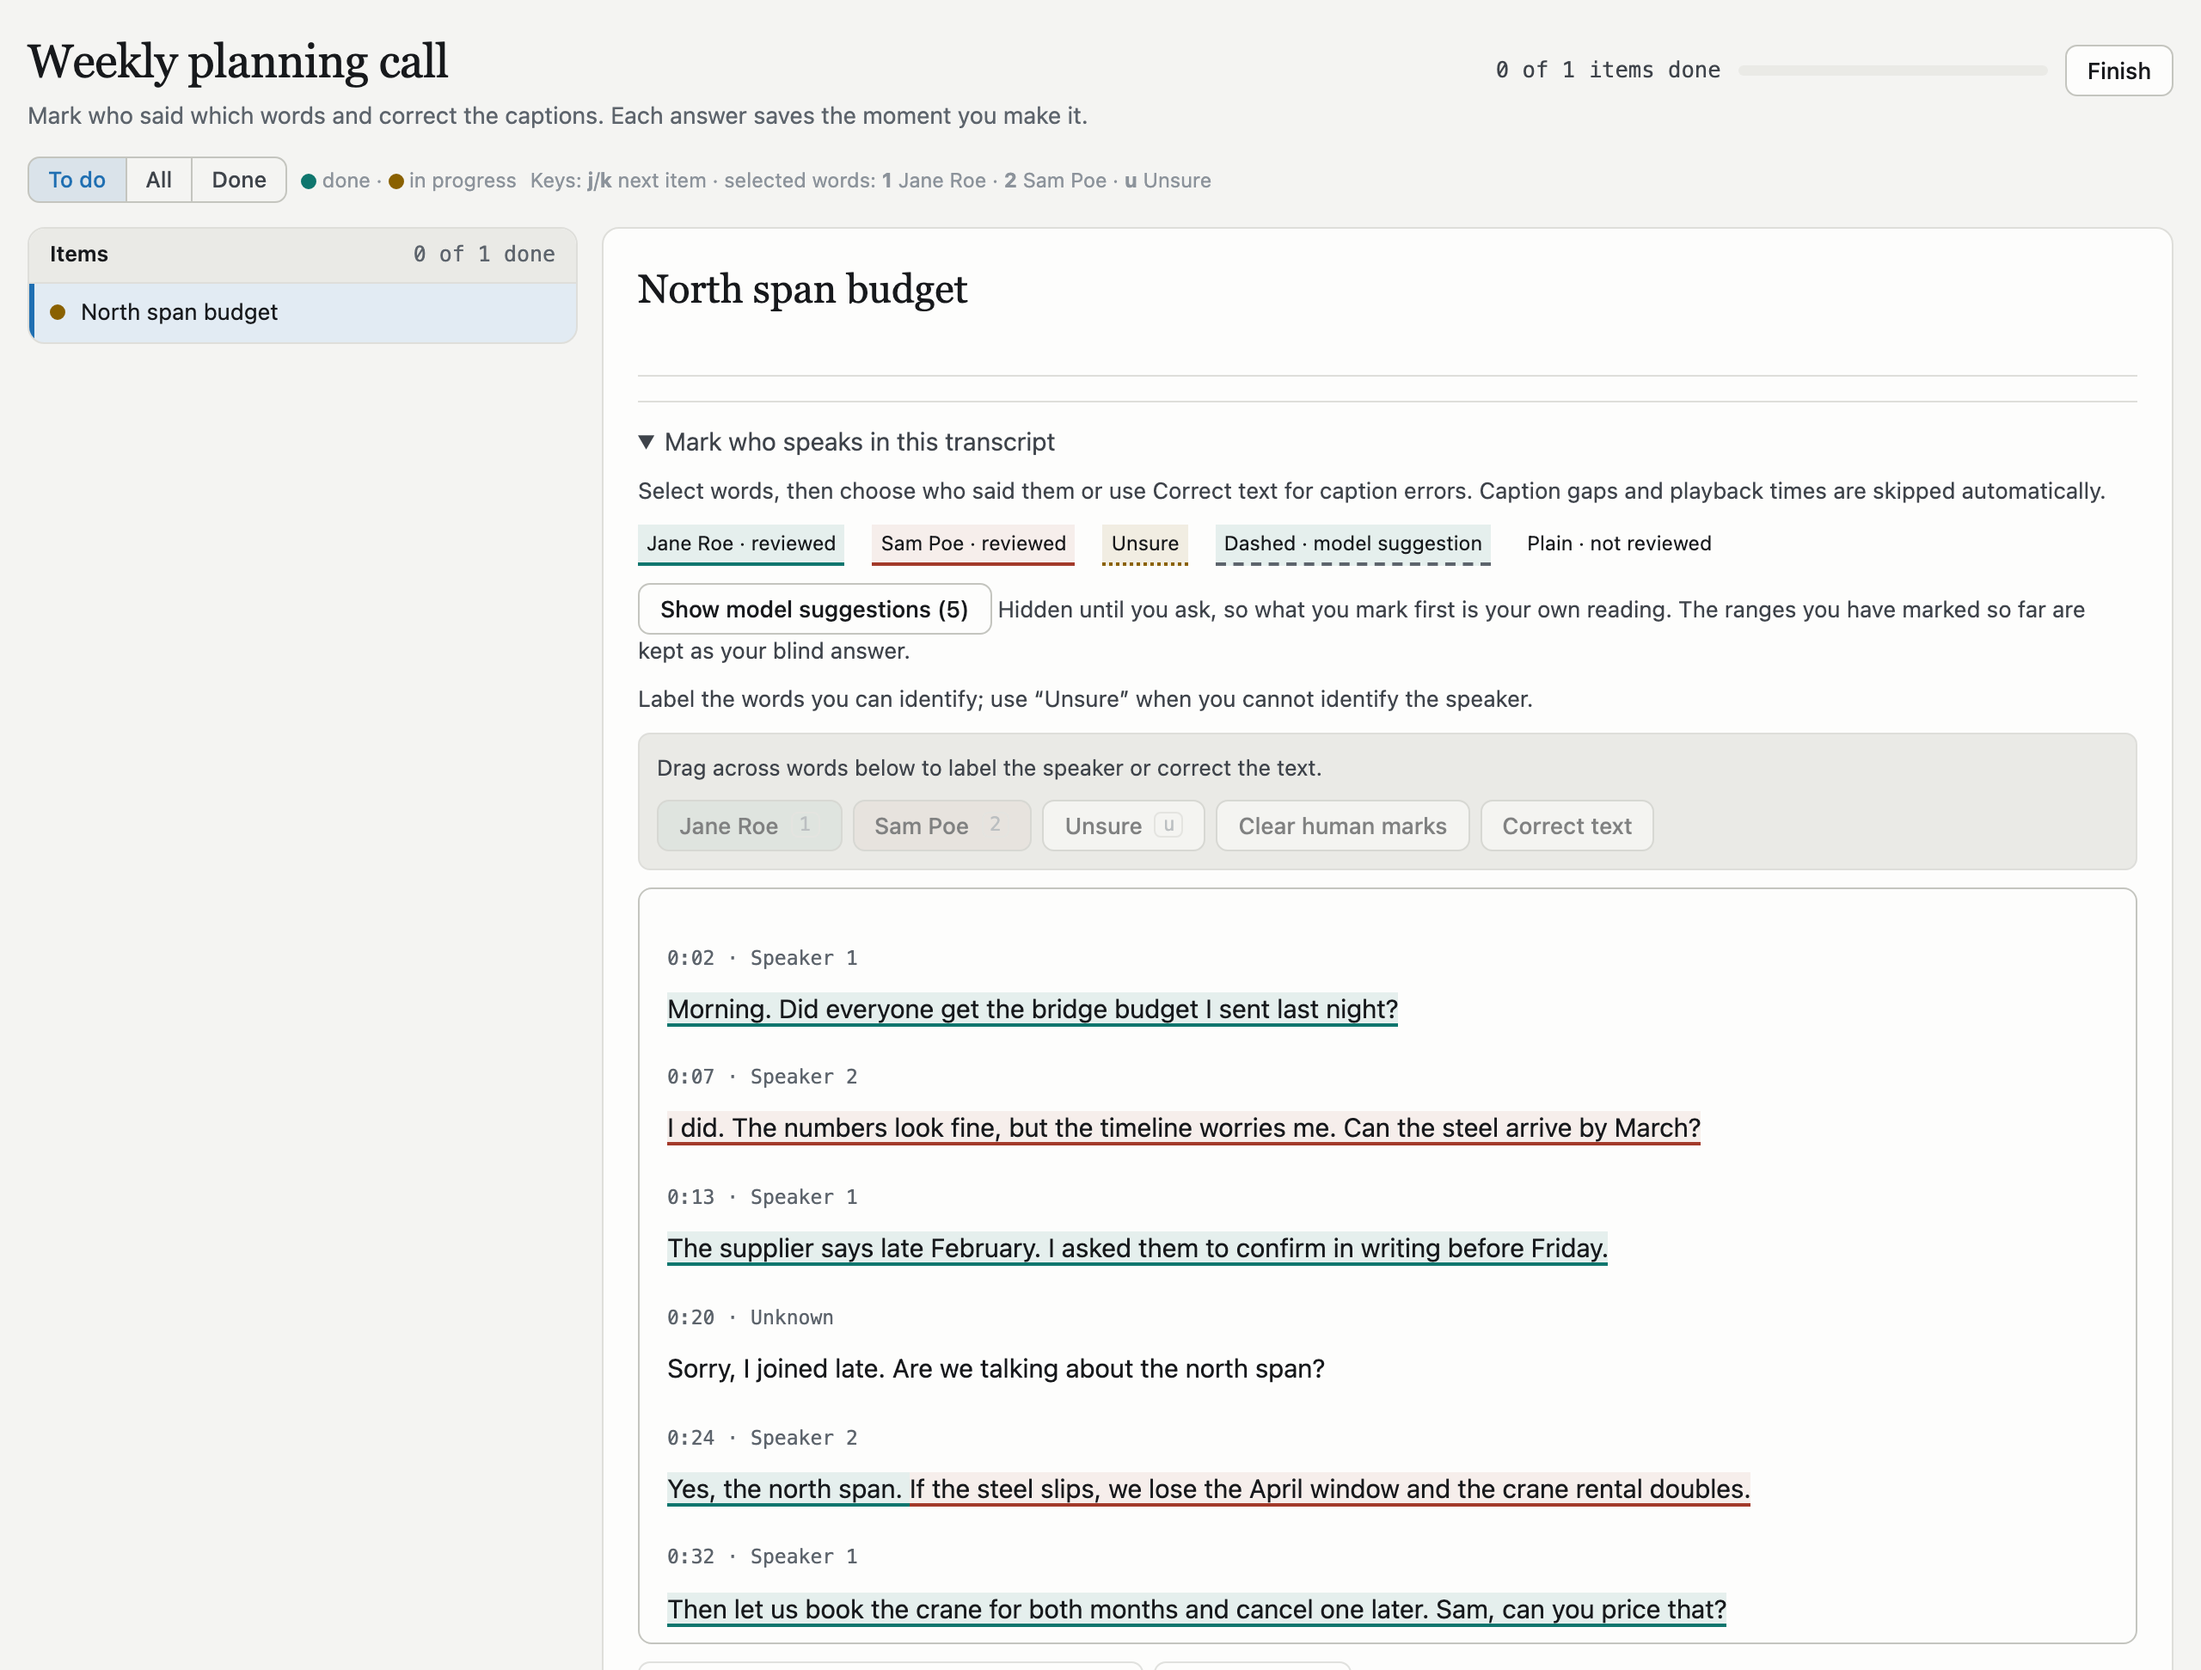
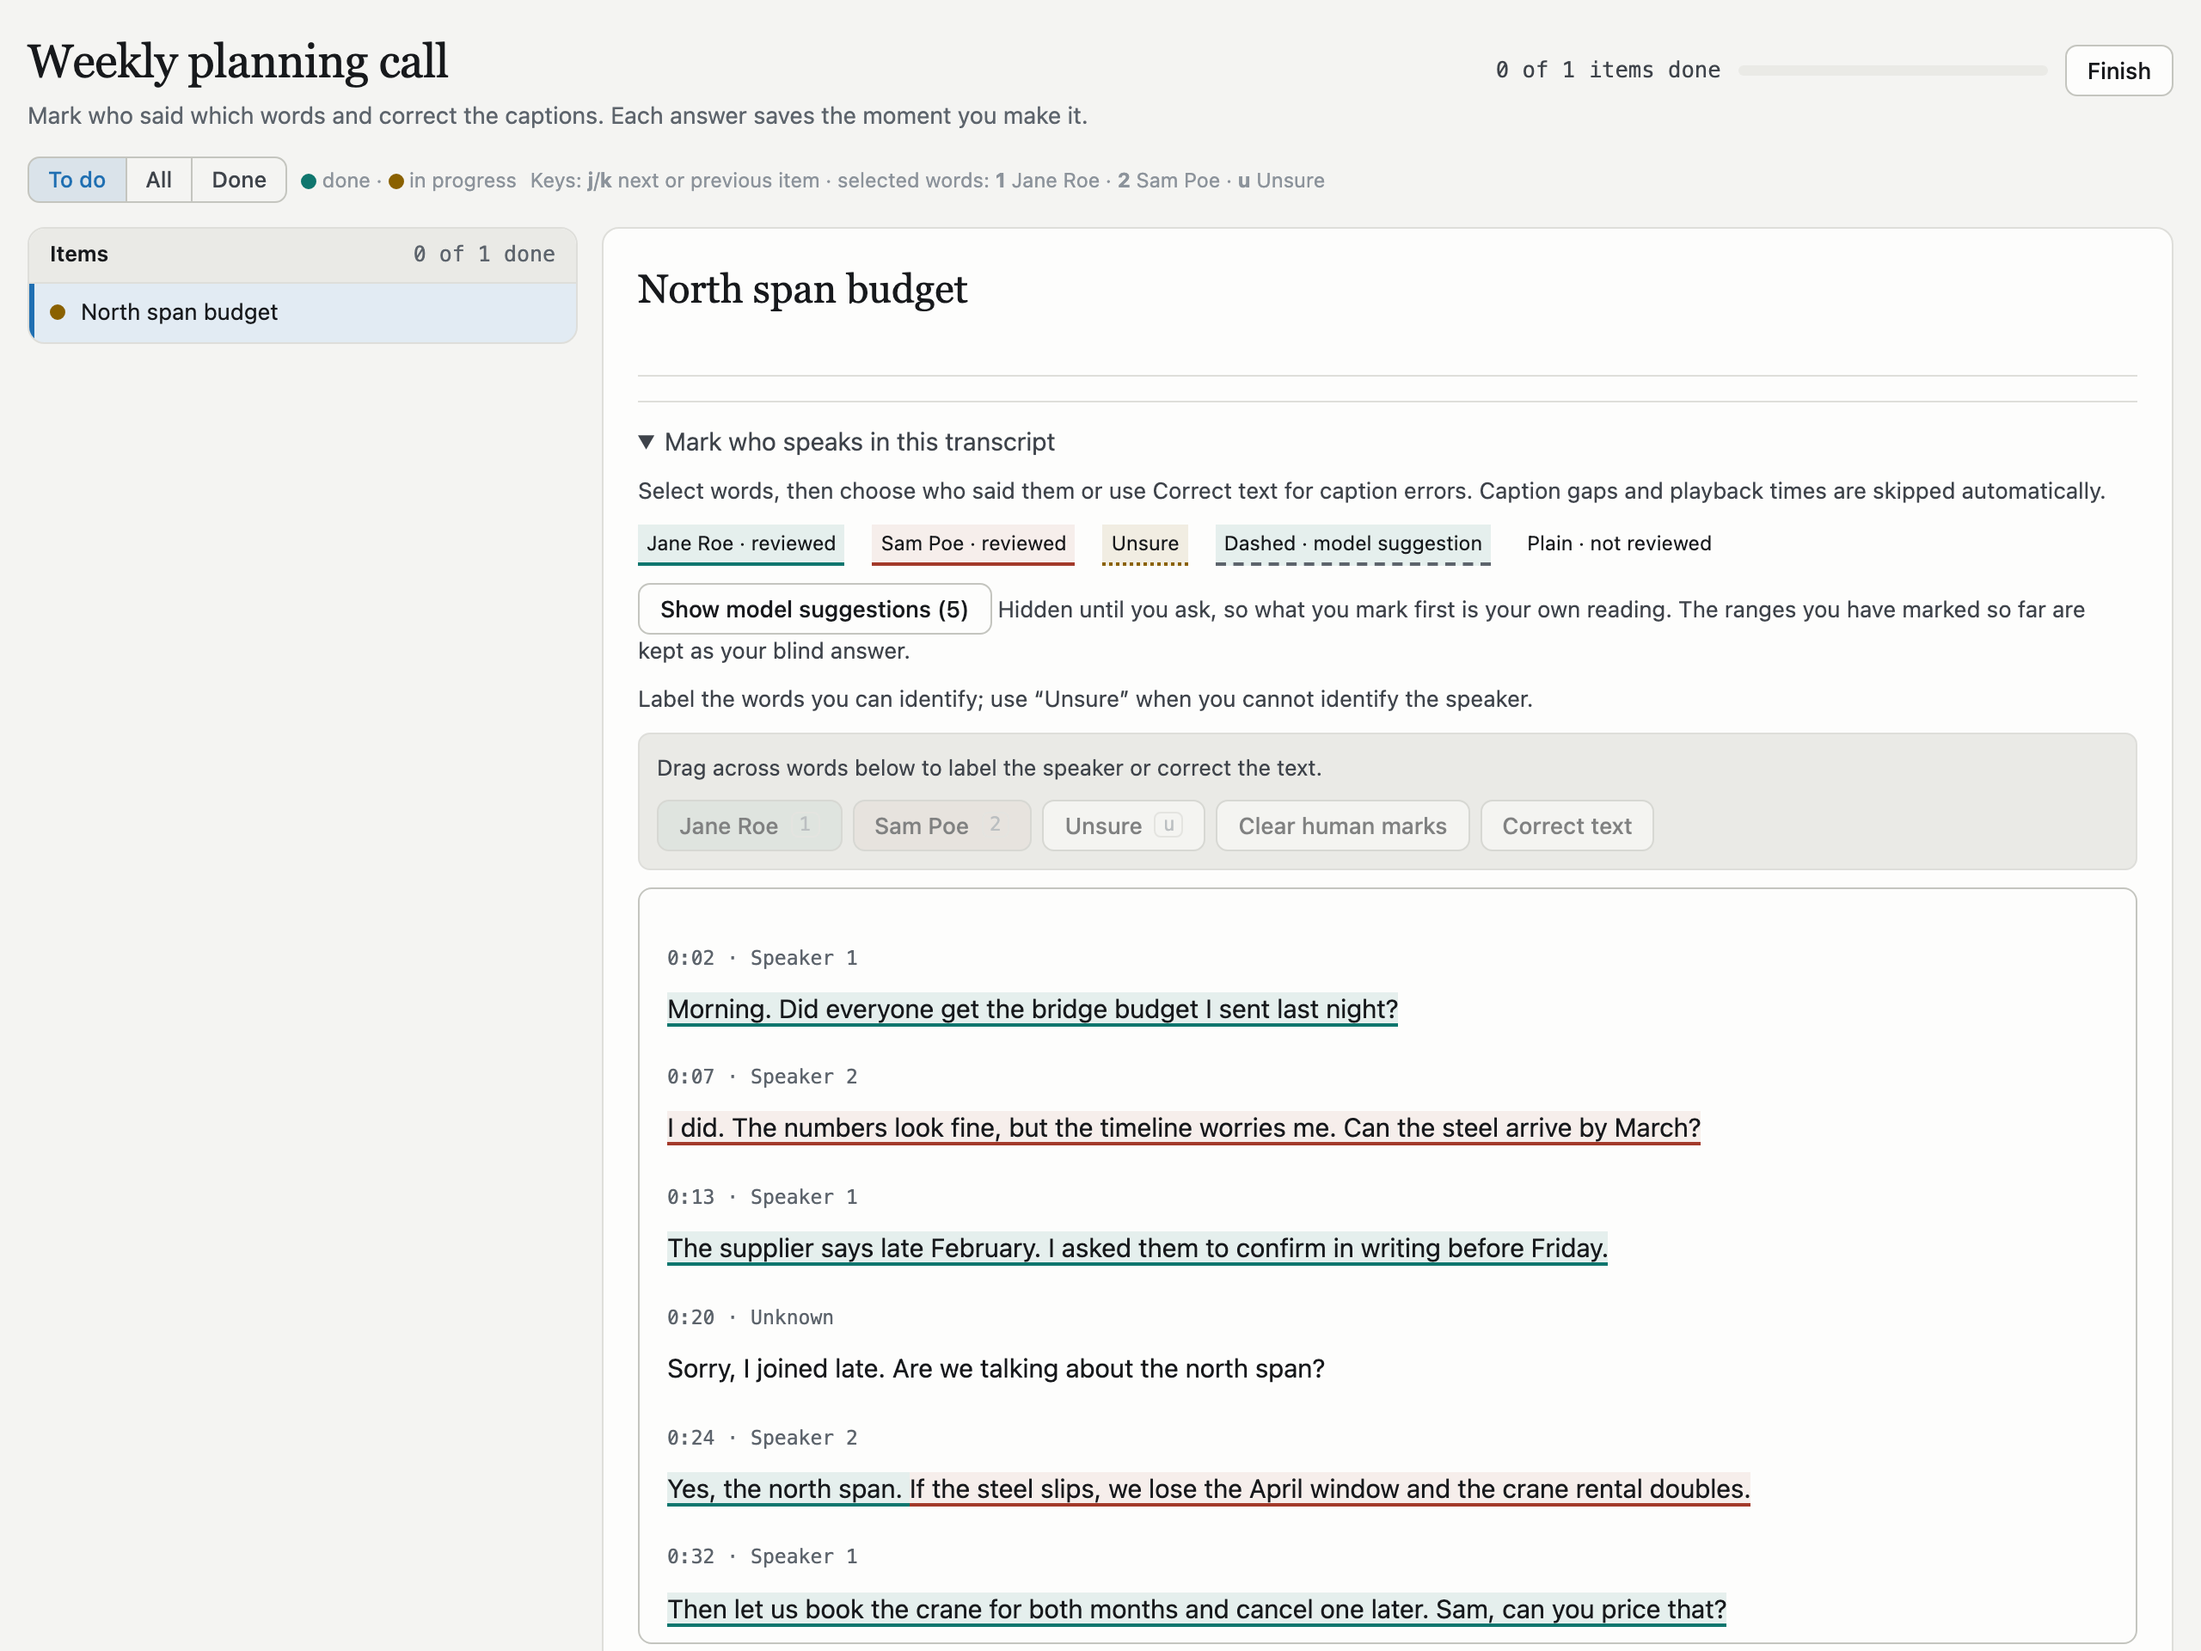
Correct the README's account of writers and word positions, and finish the page wording
Review of 427c46a..59b43d6 returned fix-first (1 must-fix, 2 should-fix, 7 nits):

- must-fix: the README said each write records its repository. A project in
  fact accepts writes only from the repositories it lists, at first only the one
  that created it, and `tl` names the repository from a GitHub `origin`. The
  README now says so.
- should-fix: `start` and `end` count the file's whitespace-separated words,
  time lines and labels included, not spoken words. The README now says so.
- should-fix: the README sent a new reader to DEPLOY.md, which is the author's
  runbook. It now gives the clone and `ops/install-launchd.sh` steps itself, says
  to stop `tl serve` first because both use port 8790, and calls DEPLOY.md the
  author's runbook.
- nits: the opening says the agent sends you the link; "each such check"
  replaces a dangling "each of these questions"; 127.0.0.1 is described as
  keeping other machines out; the key hint says "j/k next or previous item"; the
  item list's aria-label says "Items"; a checklist group counts "done", as the
  colour key does; the picture now ends between the transcript and the buttons
  under it instead of cutting through them.

Gate: `uv run pytest` -> 705 passed, 5 deselected.
Browser check ran: `uv run --group browser pytest -m browser` -> 5 passed.
`ops/install-launchd.sh --print` ran from this clone and changed nothing.

diff --git a/src/transcript_labeling/page/app_main.js b/src/transcript_labeling/page/app_main.js
@@ -119,7 +119,7 @@ function renderList(){
    ? `<div class="grp"><b>${esc(person)}</b><span class="${p.qa===p.q?"ok":""}" title="quotes with a saved answer">${p.qa} of ${p.q} quotes answered</span></div>`
    : !CHECK
    ? `<div class="grp"><b>${esc(person||"Items")}</b><span class="${p.d===p.n?"ok":""}" title="items marked done or fully answered">${p.d} of ${p.n} done</span></div>`
-   : `<div class="grp"><b>${esc(person)}</b><span class="${p.ok>=CHECK.goal.count?"ok":""}" title="${esc(CHECK.goal.help)}">${p.ok} verified of ${p.n}${p.q?` · ${p.q} quotes`:""}</span></div>`;
+   : `<div class="grp"><b>${esc(person)}</b><span class="${p.ok>=CHECK.goal.count?"ok":""}" title="${esc(CHECK.goal.help)}">${p.ok} done of ${p.n}${p.q?` · ${p.q} quotes`:""}</span></div>`;
   for(const r of rs){
    const left=outstanding(r);
    h+=`<div class="item" tabindex="0" data-k="${esc(r.key)}" aria-current="${r.key===cur}"><span class="dot ${recState(r)}"></span><span class="t">${esc(r.title)}${r.quotes.length?` <span class="turn">· ${r.quotes.length} quote${r.quotes.length>1?"s":""}</span>`:""}${chips(projectsOf(r))}</span></div>`;}
@@ -281,7 +281,7 @@ el("legend").innerHTML = CAPTIONS_ONLY ? `<span class="dot part inline"></span> 
   + (REJECTS.length ? ` · <span class="dot rej inline"></span> ${REJECTS.join(" or ")}` : "");
 el("keyhelp").innerHTML = (QUOTE_ONLY || !CHECK
  ? "Keys: " : "Keys: " + FIELDS.map(f=>`${fieldKeys(f)} ${esc(f.draft_label||f.label)}`).join(" · ") + (HAS_QUOTES ? " · quotes: " : " · "))
- + (HAS_QUOTES ? "<b>[</b>/<b>]</b> move between quotes · " : "") + "<b>j</b>/<b>k</b> next item"
+ + (HAS_QUOTES ? "<b>[</b>/<b>]</b> move between quotes · " : "") + "<b>j</b>/<b>k</b> next or previous item"
  + (S.media ? " · <b>v</b> open video" : "")
  + (HAS("speakers") && SPEAKERS.length ? " · selected words: " + [...SPEAKERS, UNCLEAR].map(s=>`<b>${esc(s.key)}</b> ${esc(fillLabel(s.label, {person:"subject"}))}`).join(" · ") : "");
 if(S.projects.length>1){const box=el("projects"); box.hidden=false;

diff --git a/src/transcript_labeling/page/page.html b/src/transcript_labeling/page/page.html
@@ -25,7 +25,7 @@
   <span class="keys" id="keyhelp"></span>
  </div>
  <div class="main">
-  <nav class="list" id="list" aria-label="Recordings"></nav>
+  <nav class="list" id="list" aria-label="Items"></nav>
   <section class="detail" id="detail" aria-live="polite"></section>
  </div>
 </div>

diff --git a/ops/readme_screenshot.py b/ops/readme_screenshot.py
@@ -139,14 +139,16 @@ def main() -> int:
                 page.click('.item[data-k="call/call-1"]')
                 page.wait_for_function(f"document.querySelectorAll('.span-transcript .word.reviewed').length > 0")
                 page.mouse.move(0, 0)
-                bottom = page.locator(".span-transcript").bounding_box()
-                if bottom["y"] + bottom["height"] > HEIGHT:
+                box = page.locator(".span-transcript").bounding_box()
+                below = page.locator(".span-transcript + .opts").bounding_box()
+                if box["y"] + box["height"] > HEIGHT:
                     raise SystemExit(f"the transcript ends below the {HEIGHT}px window; raise HEIGHT")
                 if errors:
                     raise SystemExit(f"the page raised: {errors}")
                 OUT.parent.mkdir(parents=True, exist_ok=True)
+                # End the picture in the gap between the transcript and the buttons under it.
                 page.screenshot(path=OUT, clip={"x": 0, "y": 0, "width": WIDTH,
-                                                "height": bottom["y"] + bottom["height"] + 16})
+                                                "height": (box["y"] + box["height"] + below["y"]) / 2})
                 browser.close()
         finally:
             httpd.shutdown()

diff --git a/tests/test_page.py b/tests/test_page.py
@@ -502,7 +502,7 @@ def test_a_plain_dataset_speaks_of_items_not_quotes_recordings_or_modes():
     assert r["subtitle"] == "Mark who said which words and correct the captions. Each answer saves the moment you make it."
     for part in ("keyhelp", "legend", "detail"):
         assert not re.search(r"quote|recording", r[part], re.I), (part, r[part])
-    assert "<b>j</b>/<b>k</b> next item" in r["keyhelp"]
+    assert "<b>j</b>/<b>k</b> next or previous item" in r["keyhelp"]
     # Nothing on a plain dataset can turn an item red, so the key does not offer that dot.
     assert "dot rej" not in r["legend"] and "dot done" in r["legend"] and "dot part" in r["legend"]
     captions = run_page([ITEM], sess=session(("demo",), ("captions",), speakers=ANN_BO, media=None), key=None)

diff --git a/README.md b/README.md
@@ -2,9 +2,9 @@
 
 A labeling service that runs on your Mac, for transcripts that a coding agent
 needs a person to check. An agent such as Claude Code or Codex gives the service
-a transcript, and the service gives you a link. You open the link, mark who said
-which words, correct any caption errors and press Finish. The agent then reads
-your labels back as JSON.
+a transcript and sends you the link that the service returns. You open it, mark
+who said which words, correct any caption errors and press Finish. The agent
+then reads your labels back as JSON.
 
 ![The labeling page, open on an invented planning call between Jane Roe and Sam Poe](docs/images/labeling-page.png)
 
@@ -16,8 +16,8 @@ Sam. The late joiner's caption at 0:20 is not marked yet.*
 
 Transcripts often name speakers badly. A transcriber writes "Speaker 1" or
 "Unknown", or puts two people into one caption. An agent cannot tell who spoke,
-and a guess is not a label. Before this service, each of these questions needed
-a one-off web page and a downloaded answers file. Now it takes one command for
+and a guess is not a label. Before this service, each such check needed a
+one-off web page and a downloaded answers file. Now it takes one command for
 the agent and one link for you.
 
 ## What you can label
@@ -61,8 +61,12 @@ tl export demo/planning-call segments
 `demo/planning-call` names a project and a dataset. A dataset is one labeling
 task, and each transcript in it is an item. Each speaker is written as
 `id=Label:key`. The id appears in the export, the label appears on the page, and
-the key marks the selected words. Run `tl` inside your project's git checkout,
-because each write records the repository that made it. Outside a checkout, add
+the key marks the selected words.
+
+Each write names the repository it comes from, and a project accepts writes
+only from the repositories it lists. At first that list holds only the
+repository that created the project. `tl` takes the name from the GitHub
+`origin` of the checkout it runs in. If you run it anywhere else, add
 `--repo owner/name`.
 
 The `segments` export has one row per caption. This is the split caption from
@@ -77,8 +81,9 @@ the picture above:
 ```
 
 `label` is what the transcriber wrote, and `speaker` is what you marked. Times
-are in seconds. `start` and `end` are word positions in the transcript,
-counted from 0, and `end` is one past the last word. A piece with `"speaker": null` holds words that you left unmarked,
+are in seconds. `start` and `end` are positions among the file's
+whitespace-separated words, counted from 0, and `end` is one past the last
+word. The count includes the time lines and the labels. A piece with `"speaker": null` holds words that you left unmarked,
 so they are unknown. Other exports give your marked ranges, the result for
 each passage an agent asked about, your caption corrections, your checklist
 answers and your notes. [docs/API.md](docs/API.md)
@@ -117,7 +122,7 @@ returns the file's path and counts, never the transcript text.
 
 ## Privacy and safety
 
-- The server listens on 127.0.0.1 only, so one person per Mac can label.
+- The server listens on 127.0.0.1 only, so other machines cannot reach it.
 - Agents prove who they are with a token file that only your macOS account can
   read. Your browser logs in with the one-time link. The page sends its session
   in a request header, never in a cookie.
@@ -147,10 +152,21 @@ tl init     # makes ~/.local/share/transcript-labeling, its config and its token
 tl serve    # runs the server in this terminal, at http://127.0.0.1:8790
 ```
 
-Then run `tl doctor` in another terminal to check the setup. To start the server
-at login and restart it after a crash, install it as a launchd agent.
-[docs/DEPLOY.md](docs/DEPLOY.md) has those steps, and the steps to upgrade and
-remove it.
+Then run `tl doctor` in another terminal to check the setup.
+
+To start the server at login and restart it after a crash, install it as a
+launchd agent. Before you do, stop `tl serve`, because both use port 8790. The
+installer is in this repository:
+
+```sh
+git clone https://github.com/tonygwu/transcript-labeling
+cd transcript-labeling
+ops/install-launchd.sh --print     # shows the plist and changes nothing
+ops/install-launchd.sh --install
+```
+
+[docs/DEPLOY.md](docs/DEPLOY.md) is the author's own runbook for the always-on
+install, upgrades and removal.
 
 ## Status
 
@@ -163,7 +179,7 @@ format come from the annotation tool of
 |---|---|
 | [docs/SPEC.md](docs/SPEC.md) | What the service stores, what it promises, and its known limits |
 | [docs/API.md](docs/API.md) | Every HTTP call, `tl` command and MCP tool |
-| [docs/DEPLOY.md](docs/DEPLOY.md) | The always-on install, upgrades and removal |
+| [docs/DEPLOY.md](docs/DEPLOY.md) | The author's runbook for the always-on install, upgrades and removal |
 | [docs/HISTORY.md](docs/HISTORY.md) | What was taken from verbatim-index, and from which commit |
 
 ## Development
